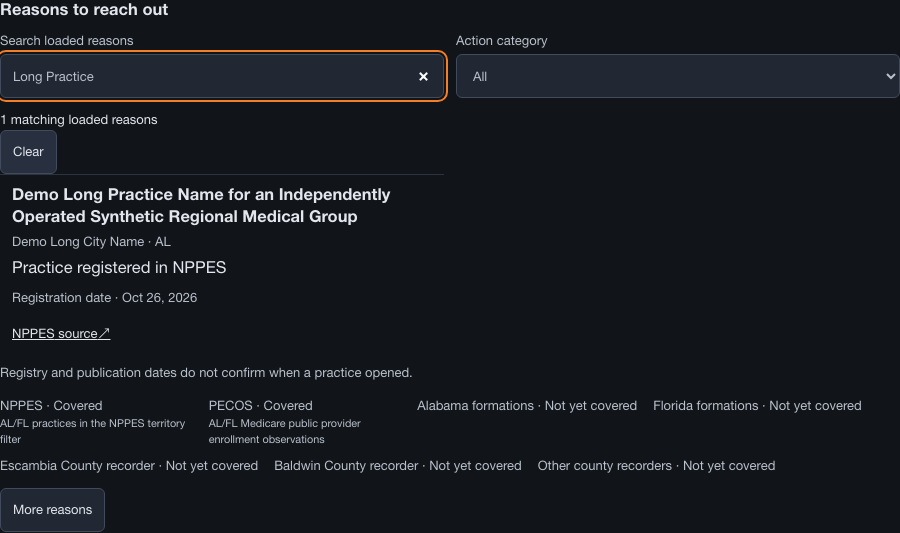
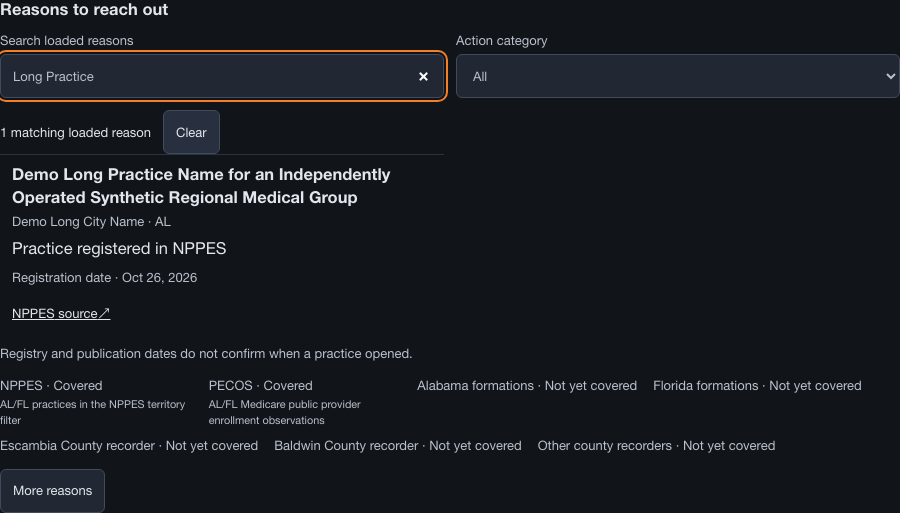
fix(leads): clarify filtered reason counts and group Clear
Use a typed category table for selection and preserve singular count copy.

diff --git a/src/ui/contact-reasons.tsx b/src/ui/contact-reasons.tsx
@@ -28,11 +28,16 @@ function ReasonCard({ row, home }: { row: Card; home: boolean }) {
     <div className="work-card-actions"><a data-reason-key={`source:${row.id}`} href={row.source_url} target="_blank" rel="noopener noreferrer">{sources[row.source]} source<span className="sr-only"> for {row.name} (opens in new tab)</span> ↗</a></div>
   </article>;
 }
+type ReasonCategory = '' | 'research' | 'relationship_follow_up' | 'identity_review';
+const reasonCategories: { value: ReasonCategory; label: string }[] = [
+  { value: '', label: 'All' }, { value: 'research', label: 'Research' },
+  { value: 'relationship_follow_up', label: 'Relationship follow-up' }, { value: 'identity_review', label: 'Identity review' },
+];
 const filterLabelStyle = { display: 'grid', gap: 'var(--space-1)', color: 'var(--fg-muted)', fontSize: 'var(--font-size-1)' };
 function ContactReasons({ payload, error, busy, retired, home, visibleCount }: State) {
   const searchInput = useRef<HTMLInputElement>(null);
   const [search, setSearch] = useState('');
-  const [category, setCategory] = useState('');
+  const [category, setCategory] = useState<ReasonCategory>('');
   const query = search.trim().toLocaleLowerCase('en-US');
   const rows = (payload?.cards || []).filter(row => home ? row.route === 'research' :
     (!category || row.route === category) && (!query || [row.name, row.city, row.state, ...row.client_refs]
@@ -46,13 +51,14 @@ function ContactReasons({ payload, error, busy, retired, home, visibleCount }: S
       {payload ? <>{!home && Boolean(payload.cards.length || payload.next_cursor || search || category) && <>
         <div style={{ display: 'grid', gridTemplateColumns: 'repeat(auto-fit, minmax(min(100%, 240px), 1fr))', gap: 'var(--space-3)', marginBlock: 'var(--space-3)' }}>
           <label className="search" style={filterLabelStyle}>Search loaded reasons<input ref={searchInput} type="search" value={search} onChange={event => setSearch(event.target.value)} /></label>
-          <label style={filterLabelStyle}>Action category<select value={category} onChange={event => setCategory(event.target.value)}>
-            <option value="">All</option><option value="research">Research</option>
-            <option value="relationship_follow_up">Relationship follow-up</option><option value="identity_review">Identity review</option>
+          <label style={filterLabelStyle}>Action category<select value={category} onChange={event => { const selected = reasonCategories.find(option => option.value === event.target.value); if (selected) setCategory(selected.value); }}>
+            {reasonCategories.map(option => <option key={option.value} value={option.value}>{option.label}</option>)}
           </select></label>
         </div>
-        <p role="status">{rows.length} matching loaded reasons</p>
-        {(search || category) && <button type="button" className="btn home-outline" onClick={() => { setSearch(''); setCategory(''); searchInput.current?.focus(); }}>Clear</button>}
+        <div style={{ display: 'flex', alignItems: 'center', flexWrap: 'wrap', gap: 'var(--space-3)' }}>
+          <p role="status">{rows.length} {search || category ? 'matching loaded' : 'loaded'} {rows.length === 1 ? 'reason' : 'reasons'}</p>
+          {(search || category) && <button type="button" className="btn home-outline" onClick={() => { setSearch(''); setCategory(''); searchInput.current?.focus(); }}>Clear</button>}
+        </div>
       </>}
       <div className="contact-reason-list">{shown.length ? shown.map(row => <ReasonCard key={row.id} row={row} home={home} />) : <p>{emptyMessage}</p>}</div>
         {rows.length > visibleCount && <button type="button" className="btn home-outline" data-reason-key="show" data-show-reasons>Show {rows.length - visibleCount} more</button>}
